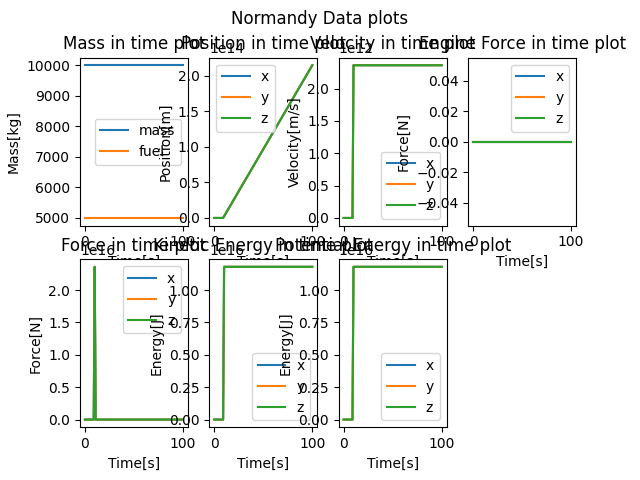
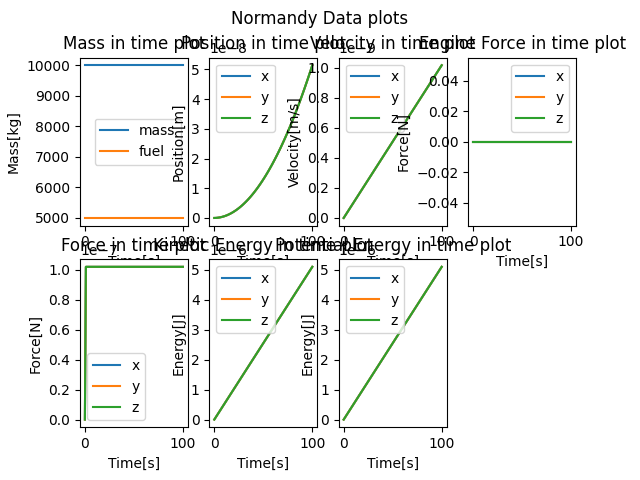
distance calculation fix

diff --git a/Engineer_Thesis/Solver.cpp b/Engineer_Thesis/Solver.cpp
@@ -155,25 +155,25 @@ void Solver::Euler() {
 		double fuel_used = Particle.fuel_usage * t;
 		grav_forces.Zero();
 		distance.Zero();
+		Particle.PotentialEnergy.Zero();
 
 		if (!Planets.empty()) { 
 			for (auto& p : Planets) {
 
-				//Recalculate potential energy
-				Particle.PotentialEnergy.Zero();
-
 				//distance between ship and planets
-				distance = Particle.position - p.position;
+				distance.x = abs(Particle.position.x) - (abs(p.position.x) + p.radius);
+				distance.y = abs(Particle.position.y) - (abs(p.position.y) + p.radius);
+				distance.z = abs(Particle.position.z) - (abs(p.position.z) + p.radius);
 
 				//Potential energy
-				Particle.PotentialEnergy.x -= (G * p.mass * Particle.mass) / (p.radius + distance.x);
-				Particle.PotentialEnergy.y -= (G * p.mass * Particle.mass) / (p.radius + distance.y);
-				Particle.PotentialEnergy.z -= (G * p.mass * Particle.mass) / (p.radius + distance.z);
+				Particle.PotentialEnergy.x -= (G * p.mass * Particle.mass) / (distance.x);
+				Particle.PotentialEnergy.y -= (G * p.mass * Particle.mass) / (distance.y);
+				Particle.PotentialEnergy.z -= (G * p.mass * Particle.mass) / (distance.z);
 
 				//gravitational forces
-				grav_forces.x += ((G * p.mass * Particle.mass) / ((p.radius + distance.x) * (p.radius + distance.x)));
-				grav_forces.y += ((G * p.mass * Particle.mass) / ((p.radius + distance.y) * (p.radius + distance.y)));
-				grav_forces.z += ((G * p.mass * Particle.mass) / ((p.radius + distance.z) * (p.radius + distance.z)));
+				grav_forces.x += ((G * p.mass * Particle.mass) / (distance.x * distance.x));
+				grav_forces.y += ((G * p.mass * Particle.mass) / (distance.y * distance.y));
+				grav_forces.z += ((G * p.mass * Particle.mass) / (distance.z * distance.z));
 			}
 
 			//Change initial value of energy and start printing energy
@@ -185,7 +185,6 @@ void Solver::Euler() {
 			}
 
 		}	
-
 			//check engine forces only if particle has a mass
 			if (Particle.mass > 0 ) {
 
